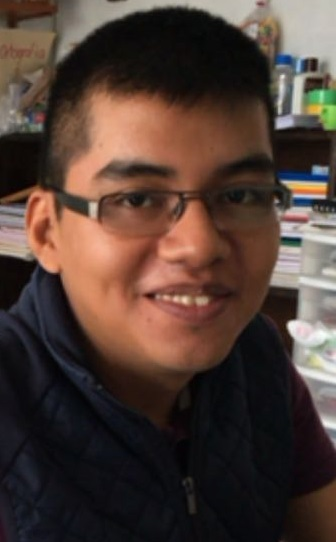
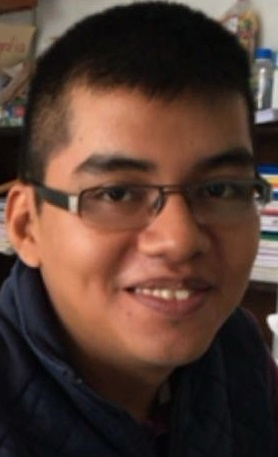
configuracion de plantilla
completando los detalles del portafolio web

diff --git a/index.html b/index.html
@@ -74,8 +74,11 @@
           <div class="carousel-item active" style="background-image: url('img/intro/1.jpg');">
             <div class="carousel-container">
               <div class="carousel-content">
-               <h2>  <a href="#team"> Acerca de mi </a> </h2> 
-                <p></p>
+               <h2>  <a href="#team"> JORGE GUZMÁN JUÁREZ  </a> </h2> 
+                <p>
+				Programador web <br>
+		      Ingeniero en Tecnologías de la Información y Comunicaciones
+				</p>
                 
               </div>
             </div>
@@ -85,7 +88,7 @@
             <div class="carousel-container">
               <div class="carousel-content">
                 <h2>  <a href="#skills"> Competencias </a> </h2>
-                <p></p>
+                <p>Conocimientos técnicos aprendidos con mis estudios y trabajos</p>
                
               </div>
             </div>
@@ -95,8 +98,10 @@
             <div class="carousel-container">
               <div class="carousel-content">
                 <h2>  <a href="#portfolio"> Proyectos </a> </h2>
-                <p></p>
-                
+                <p>
+					Paginas y sistemas web construidos como ejercicios de practica
+				</p>
+             
               </div>
             </div>
           </div>
@@ -105,12 +110,12 @@
 
         <a class="carousel-control-prev" href="#introCarousel" role="button" data-slide="prev">
           <span class="carousel-control-prev-icon ion-chevron-left" aria-hidden="true"></span>
-          <span class="sr-only">Previous</span>
+          <span class="sr-only">Anterior</span>
         </a>
 
         <a class="carousel-control-next" href="#introCarousel" role="button" data-slide="next">
           <span class="carousel-control-next-icon ion-chevron-right" aria-hidden="true"></span>
-          <span class="sr-only">Next</span>
+          <span class="sr-only">Siguiente</span>
         </a>
 
       </div>
@@ -136,7 +141,7 @@
 
           <div class="col-lg-3 col-md-6 wow fadeInUp">
             <div class="member">
-              <img src="img/team/team-5.jpg" class="img-fluid" alt="">
+              <img src="img/team/team-3.jpg" class="img-fluid" alt="">
               <div class="member-info">
                 <div class="member-info-content">
 				<h4>Jorge Guzmán Juárez</h4>
@@ -157,7 +162,9 @@
 			 <img src="img/quote-sign/quote-sign-left.png" class="quote-sign-left" alt="">
 			Soy un profesionista responsable, ordenado, trabajador, autodidacta, puntual, honesto, capaz de trabajar en equipo y enfocado a dar resultados.<br>
 			Un ingeniero con experiencia en HTML5, CSS3, JavaScript, JSON, AJAX, Bootstrap, PHP, PDO, POO, MVC, Github, Mysql, MS SQL Server y conocimientos 
-			en otras tecnologias como java, arduino, redes lan, linux, entre otras.
+			en otras tecnologias como java, arduino, redes lan, linux, entre otras. <br>
+			Continuamente aprendiendo y adquiriendo nuevas habilidades en función a las actuales y futuras demandas y tendencias tecnológicas en el 
+			campo del desarrollo web en general.
 			<img src="img/quote-sign/quote-sign-right.png" class="quote-sign-right" alt="">
 			</p>
 			<div class="text-center">
@@ -219,14 +226,16 @@
         </header>
 
         <div class="owl-carousel clients-carousel">
-          <img src="img/clients/client-1.png" alt=""> <!-- Windows -->
-          <img src="img/clients/client-2.png" alt=""> <!-- Office -->
-          <img src="img/clients/client-3.png" alt=""> <!-- SQL Server -->
-          <img src="img/clients/client-4.png" alt=""> <!-- Visual Studio code -->
-          <img src="img/clients/client-5.png" alt=""> <!-- Visual Studio -->
-          <img src="img/clients/client-6.png" alt=""> <!-- Github -->
-          <img src="img/clients/client-7.png" alt=""> <!-- Otulook -->
-          <img src="img/clients/client-8.png" alt=""> <!-- Skype -->
+          <img class="text-center" src="img/tecnologies/tec-0.png" alt=""> 
+          <img class="text-center" src="img/tecnologies/tec-1.png" alt=""> 
+          <img class="text-center" src="img/tecnologies/tec-2.png" alt=""> 
+          <img class="text-center" src="img/tecnologies/tec-3.jpg" alt=""> 
+          <img class="text-center" src="img/tecnologies/tec-4.png" alt=""> 
+          <img class="text-center" src="img/tecnologies/tec-5.png" alt=""> 
+          <img class="text-center" src="img/tecnologies/tec-6.png" alt=""> 
+          <img class="text-center" src="img/tecnologies/tec-7.png" alt=""> 
+		  <img class="text-center" src="img/tecnologies/tec-8.jpg" alt=""> 
+		  <img class="text-center" src="img/tecnologies/tec-10.png" alt=""> 		 
         </div>
 
       </div>
@@ -248,7 +257,7 @@
               <li data-filter="*" class="filter-active">Todos</li>
 			  <li data-filter=".filter-web">Sistemas</li>
 			  <li data-filter=".filter-card">Ejercicios</li>
-             
+             <li data-filter=".filter-dia">Diagramas</li>
             </ul>
           </div>
         </div>
@@ -258,8 +267,8 @@
 		<div class="col-lg-4 col-md-6 portfolio-item filter-web wow fadeInUp" data-wow-delay="0.1s">
             <div class="portfolio-wrap">
               <figure>
-                <img src="img/portfolio/web.jpg" class="img-fluid" alt="">
-                <a href="img/portfolio/web.jpg" class="link-preview" data-lightbox="portfolio" data-title="Web 1" title="Preview"><i class="ion ion-eye"></i></a>
+                <img src="img/portfolio/web1.jpg" class="img-fluid" alt="">
+                <a href="img/portfolio/web1.jpg" class="link-preview" data-lightbox="portfolio" data-title="Portafolio Web" title="Vista"><i class="ion ion-eye"></i></a>
                 <a href="https://github.com/JGJCodes/Html-PortafolioLaboral" class="link-details" title="More Details"><i class="ion ion-android-open"></i></a>
               </figure>
 
@@ -273,9 +282,9 @@
 		<div class="col-lg-4 col-md-6 portfolio-item filter-web wow fadeInUp" data-wow-delay="0.1s">
             <div class="portfolio-wrap">
               <figure>
-                <img src="img/portfolio/web2.jpg" class="img-fluid" alt="">
-                <a href="img/portfolio/web2.jpg" class="link-preview" data-lightbox="portfolio" data-title="Web 2" title="Preview"><i class="ion ion-eye"></i></a>
-                <a href="https://github.com/JGJCodes/Php-SistemaWebCurso" class="link-details" title="More Details"><i class="ion ion-android-open"></i></a>
+                <img src="img/portfolio/web3.png" class="img-fluid" alt="">
+                <a href="img/portfolio/web3.png" class="link-preview" data-lightbox="portfolio" data-title="Sistema Web Curso" title="Visualizar"><i class="ion ion-eye"></i></a>
+                <a href="https://github.com/JGJCodes/Php-SistemaWebCurso" class="link-details" title="Más Detalles"><i class="ion ion-android-open"></i></a>
               </figure>
 
               <div class="portfolio-info">
@@ -288,9 +297,9 @@
           <div class="col-lg-4 col-md-6 portfolio-item filter-web wow fadeInUp" data-wow-delay="0.1s">
             <div class="portfolio-wrap">
               <figure>
-                <img src="img/portfolio/web3.jpg" class="img-fluid" alt="">
-                <a href="img/portfolio/web3.jpg" class="link-preview" data-lightbox="portfolio" data-title="Web 3" title="Preview"><i class="ion ion-eye"></i></a>
-                <a href="https://github.com/JGJCodes/Php-SistemaEscolar-Residencias" class="link-details" title="More Details"><i class="ion ion-android-open"></i></a>
+                <img src="img/portfolio/web2.png" class="img-fluid" alt="">
+                <a href="img/portfolio/web2.png" class="link-preview" data-lightbox="portfolio" data-title="Sistema Web Escolar" title="Visualizar"><i class="ion ion-eye"></i></a>
+                <a href="https://github.com/JGJCodes/Php-SistemaEscolar-Residencias" class="link-details" title="Más Detalles"><i class="ion ion-android-open"></i></a>
               </figure>
 
               <div class="portfolio-info">
@@ -298,13 +307,43 @@
                 <p>Se trata de un sistema web educativo.</p>
               </div>
             </div>
-          </div>	  
+          </div>
+
+		<div class="col-lg-4 col-md-6 portfolio-item filter-web wow fadeInUp" data-wow-delay="0.1s">
+            <div class="portfolio-wrap">
+              <figure>
+                <img src="img/portfolio/web4.png" class="img-fluid" alt="">
+                <a href="img/portfolio/web4.png" class="link-preview" data-lightbox="portfolio" data-title="Pagina Web Noticias" title="Visualizar"><i class="ion ion-eye"></i></a>
+                <a href="https://github.com/JGJCodes/Html-PaginaWebNoticias" class="link-details" title="Más Detalles"><i class="ion ion-android-open"></i></a>
+              </figure>
+
+              <div class="portfolio-info">
+                <h4><a href="https://github.com/JGJCodes/Html-PaginaWebNoticias">Pagina Web Noticias</a></h4>
+                <p>Se trata de un ejemplo de una pagina web de noticias.</p>
+              </div>
+            </div>
+          </div>
+
+		<div class="col-lg-4 col-md-6 portfolio-item filter-card wow fadeInUp">
+            <div class="portfolio-wrap">
+              <figure>
+                <img src="img/portfolio/ejer-html.png" class="img-fluid" alt="">
+                <a href="img/portfolio/ejer-html.png" data-lightbox="portfolio" data-title="Ejercicios HTML" class="link-preview" title="Visualizar"><i class="ion ion-eye"></i></a>
+                <a href="https://github.com/JGJCodes/Html-Examples" class="link-details" title="Más Detalles"><i class="ion ion-android-open"></i></a>
+              </figure>
+
+              <div class="portfolio-info">
+                <h4><a href="https://github.com/JGJCodes/Html-Examples">Ejercicios HTML</a></h4>
+                <p>Ejemplos de programación construidos con HTML</p>
+              </div>
+            </div>
+          </div>
 		  
 		  <div class="col-lg-4 col-md-6 portfolio-item filter-card wow fadeInUp">
             <div class="portfolio-wrap">
               <figure>
-                <img src="img/portfolio/app1.jpg" class="img-fluid" alt="">
-                <a href="img/portfolio/app1.jpg" data-lightbox="portfolio" data-title="App 1" class="link-preview" title="Visualizar"><i class="ion ion-eye"></i></a>
+                <img src="img/portfolio/ejer-css.png" class="img-fluid" alt="">
+                <a href="img/portfolio/ejer-css.png" data-lightbox="portfolio" data-title="Ejercicios CSS" class="link-preview" title="Visualizar"><i class="ion ion-eye"></i></a>
                 <a href="https://github.com/JGJCodes/Css-Examples" class="link-details" title="Más Detalles"><i class="ion ion-android-open"></i></a>
               </figure>
 
@@ -318,9 +357,9 @@
 		  <div class="col-lg-4 col-md-6 portfolio-item filter-card wow fadeInUp" data-wow-delay="0.2s">
             <div class="portfolio-wrap">
               <figure>
-                <img src="img/portfolio/app3.jpg" class="img-fluid" alt="">
-                <a href="img/portfolio/app3.jpg" class="link-preview" data-lightbox="portfolio" data-title="App 2" title="Preview"><i class="ion ion-eye"></i></a>
-                <a href="https://github.com/JGJCodes/Boobstrap-Examples" class="link-details" title="More Details"><i class="ion ion-android-open"></i></a>
+                <img src="img/portfolio/ejer-bootstrap.png" class="img-fluid" alt="">
+                <a href="img/portfolio/ejer-bootstrap.png" class="link-preview" data-lightbox="portfolio" data-title="Ejercicios Bootstrap" title="Visualizar"><i class="ion ion-eye"></i></a>
+                <a href="https://github.com/JGJCodes/Boobstrap-Examples" class="link-details" title="Más Detalles"><i class="ion ion-android-open"></i></a>
               </figure>
 
               <div class="portfolio-info">
@@ -333,9 +372,9 @@
           <div class="col-lg-4 col-md-6 portfolio-item filter-card wow fadeInUp" data-wow-delay="0.2s">
             <div class="portfolio-wrap">
               <figure>
-                <img src="img/portfolio/app3.jpg" class="img-fluid" alt="">
-                <a href="img/portfolio/app3.jpg" class="link-preview" data-lightbox="portfolio" data-title="App 2" title="Preview"><i class="ion ion-eye"></i></a>
-                <a href="https://github.com/JGJCodes/Php-Examples" class="link-details" title="More Details"><i class="ion ion-android-open"></i></a>
+                <img src="img/portfolio/ejer-php.png" class="img-fluid" alt="">
+                <a href="img/portfolio/ejer-php.png" class="link-preview" data-lightbox="portfolio" data-title="Ejercicios PHP" title="Visualizar"><i class="ion ion-eye"></i></a>
+                <a href="https://github.com/JGJCodes/Php-Examples" class="link-details" title="Más Detalles"><i class="ion ion-android-open"></i></a>
               </figure>
 
               <div class="portfolio-info">
@@ -348,9 +387,9 @@
 		  <div class="col-lg-4 col-md-6 portfolio-item filter-card wow fadeInUp" data-wow-delay="0.2s">
             <div class="portfolio-wrap">
               <figure>
-                <img src="img/portfolio/app3.jpg" class="img-fluid" alt="">
-                <a href="img/portfolio/app3.jpg" class="link-preview" data-lightbox="portfolio" data-title="App 2" title="Preview"><i class="ion ion-eye"></i></a>
-                <a href="https://github.com/JGJCodes/Javascript-Examples" class="link-details" title="More Details"><i class="ion ion-android-open"></i></a>
+                <img src="img/portfolio/ejer-javascript.png" class="img-fluid" alt="">
+                <a href="img/portfolio/ejer-javascript.png" class="link-preview" data-lightbox="portfolio" data-title="Ejercicios Javascript" title="Visualizar"><i class="ion ion-eye"></i></a>
+                <a href="https://github.com/JGJCodes/Javascript-Examples" class="link-details" title="Más Detalles"><i class="ion ion-android-open"></i></a>
               </figure>
 
               <div class="portfolio-info">
@@ -363,9 +402,9 @@
 		  <div class="col-lg-4 col-md-6 portfolio-item filter-card wow fadeInUp" data-wow-delay="0.2s">
             <div class="portfolio-wrap">
               <figure>
-                <img src="img/portfolio/app3.jpg" class="img-fluid" alt="">
-                <a href="img/portfolio/app3.jpg" class="link-preview" data-lightbox="portfolio" data-title="App 2" title="Preview"><i class="ion ion-eye"></i></a>
-                <a href="https://github.com/JGJCodes/Arduino-Examples" class="link-details" title="More Details"><i class="ion ion-android-open"></i></a>
+                <img src="img/portfolio/ejer-arduino.jpg" class="img-fluid" alt="">
+                <a href="img/portfolio/ejer-arduino.jpg" class="link-preview" data-lightbox="portfolio" data-title="Ejercicios Arduino" title="Visualizar"><i class="ion ion-eye"></i></a>
+                <a href="https://github.com/JGJCodes/Arduino-Examples" class="link-details" title="Más Detalles"><i class="ion ion-android-open"></i></a>
               </figure>
 
               <div class="portfolio-info">
@@ -374,6 +413,157 @@
               </div>
             </div>
           </div>
+		  
+		   <div class="col-lg-4 col-md-6 portfolio-item filter-dia wow fadeInUp" data-wow-delay="0.2s">
+            <div class="portfolio-wrap">
+              <figure>
+                <img src="img/portfolio/dia1.png" class="img-fluid" alt="">
+                <a href="img/portfolio/dia1.png" class="link-preview" data-lightbox="portfolio" data-title="Diagrama DB" title="Visualizar"><i class="ion ion-eye"></i></a>
+                
+              </figure>
+
+              <div class="portfolio-info">
+                <h4><a href="img/portfolio/dia1.png" class="link-preview" data-lightbox="portfolio" data-title="Diagrama DB" title="Visualizar">Diagrama DB</a></h4>
+                <p>Ejemplos de un diagrama de una base de datos de un ejercicio.</p>
+              </div>
+            </div>
+          </div>
+		  
+		  <div class="col-lg-4 col-md-6 portfolio-item filter-dia wow fadeInUp" data-wow-delay="0.2s">
+            <div class="portfolio-wrap">
+              <figure>
+                <img src="img/portfolio/dia2.png" class="img-fluid" alt="">
+                <a href="img/portfolio/dia2.png" class="link-preview" data-lightbox="portfolio" data-title="Diagrama DB" title="Visualizar"><i class="ion ion-eye"></i></a>
+               
+              </figure>
+
+              <div class="portfolio-info">
+                <h4><a href="img/portfolio/dia2.png" class="link-preview" data-lightbox="portfolio" data-title="Diagrama DB" title="Visualizar">Diagrama DB</a></h4>
+                <p>Ejemplos de un diagrama de una base de datos de un ejercicio.</p>
+              </div>
+            </div>
+          </div>
+		  
+		  <div class="col-lg-4 col-md-6 portfolio-item filter-dia wow fadeInUp" data-wow-delay="0.2s">
+            <div class="portfolio-wrap">
+              <figure>
+                <img src="img/portfolio/dia3.png" class="img-fluid" alt="">
+                <a href="img/portfolio/dia3.png" class="link-preview" data-lightbox="portfolio" data-title="Diagrama DB" title="Visualizar"><i class="ion ion-eye"></i></a>
+               
+              </figure>
+
+              <div class="portfolio-info">
+                <h4><a href="img/portfolio/dia3.png" class="link-preview" data-lightbox="portfolio" data-title="Diagrama DB" title="Visualizar">Diagrama DB</a></h4>
+                <p>Ejemplos de un diagrama de una base de datos de un ejercicio.</p>
+              </div>
+            </div>
+          </div>
+		  
+		  <div class="col-lg-4 col-md-6 portfolio-item filter-dia wow fadeInUp" data-wow-delay="0.2s">
+            <div class="portfolio-wrap">
+              <figure>
+                <img src="img/portfolio/dia4.png" class="img-fluid" alt="">
+                <a href="img/portfolio/dia4.png" class="link-preview" data-lightbox="portfolio" data-title="Diagrama DB" title="Visualizar"><i class="ion ion-eye"></i></a>
+               
+              </figure>
+
+              <div class="portfolio-info">
+                <h4><a href="img/portfolio/dia4.png" class="link-preview" data-lightbox="portfolio" data-title="Diagrama DB" title="Visualizar">Diagrama DB</a></h4>
+                <p>Ejemplos de un diagrama de una base de datos de un ejercicio.</p>
+              </div>
+            </div>
+          </div>
+		  
+		  <div class="col-lg-4 col-md-6 portfolio-item filter-dia wow fadeInUp" data-wow-delay="0.2s">
+            <div class="portfolio-wrap">
+              <figure>
+                <img src="img/portfolio/dia5.png" class="img-fluid" alt="">
+                <a href="img/portfolio/dia5.png" class="link-preview" data-lightbox="portfolio" data-title="Diagrama caso de uso" title="Visualizar"><i class="ion ion-eye"></i></a>
+               
+              </figure>
+
+              <div class="portfolio-info">
+                <h4><a href="img/portfolio/dia5.png" class="link-preview" data-lightbox="portfolio" data-title="Diagrama caso de uso" title="Visualizar">Diagrama caso de uso</a></h4>
+                <p>Ejemplos de un diagrama uml de casos de uso de un ejercicio.</p>
+              </div>
+            </div>
+          </div>
+		  
+		  <div class="col-lg-4 col-md-6 portfolio-item filter-dia wow fadeInUp" data-wow-delay="0.2s">
+            <div class="portfolio-wrap">
+              <figure>
+                <img src="img/portfolio/dia6.jpeg" class="img-fluid" alt="">
+                <a href="img/portfolio/dia6.jpeg" class="link-preview" data-lightbox="portfolio" data-title="App 2" title="Visualizar"><i class="ion ion-eye"></i></a>
+               
+              </figure>
+
+              <div class="portfolio-info">
+                <h4><a href="img/portfolio/dia6.jpeg" class="link-preview" data-lightbox="portfolio" data-title="Diagrama electrónico" title="Visualizar">Diagrama electrónico</a></h4>
+                <p>Ejemplos de un diagrama de un circuito electrónico</p>
+              </div>
+            </div>
+          </div>
+		  
+		  <div class="col-lg-4 col-md-6 portfolio-item filter-dia wow fadeInUp" data-wow-delay="0.2s">
+            <div class="portfolio-wrap">
+              <figure>
+                <img src="img/portfolio/dia7.jpg" class="img-fluid" alt="">
+                <a href="img/portfolio/dia7.jpg" class="link-preview" data-lightbox="portfolio" data-title="App 2" title="Visualizar"><i class="ion ion-eye"></i></a>
+               
+              </figure>
+
+              <div class="portfolio-info">
+                <h4><a href="img/portfolio/dia7.jpg" class="link-preview" data-lightbox="portfolio" data-title="App 2" title="Visualizar">Diagrama DB</a></h4>
+                <p>Ejemplos de un diagrama de un circuito electrónico.</p>
+              </div>
+            </div>
+          </div>
+		  
+		  <div class="col-lg-4 col-md-6 portfolio-item filter-dia wow fadeInUp" data-wow-delay="0.2s">
+            <div class="portfolio-wrap">
+              <figure>
+                <img src="img/portfolio/dia8.jpg" class="img-fluid" alt="">
+                <a href="img/portfolio/dia8.jpg" class="link-preview" data-lightbox="portfolio" data-title="Diagrama electrónico" title="Visualizar"><i class="ion ion-eye"></i></a>
+               
+              </figure>
+
+              <div class="portfolio-info">
+                <h4><a href="img/portfolio/dia8.jpg" class="link-preview" data-lightbox="portfolio" data-title="Diagrama electrónico" title="Visualizar">Diagrama electrónico</a></h4>
+                <p>Ejemplos de un diagrama de un circuito electrónico.</p>
+              </div>
+            </div>
+          </div>
+		  
+		  <div class="col-lg-4 col-md-6 portfolio-item filter-dia wow fadeInUp" data-wow-delay="0.2s">
+            <div class="portfolio-wrap">
+              <figure>
+                <img src="img/portfolio/dia9.png" class="img-fluid" alt="">
+                <a href="img/portfolio/dia9.png" class="link-preview" data-lightbox="portfolio" data-title="Mapa de sitio we" title="Visualizar"><i class="ion ion-eye"></i></a>
+               
+              </figure>
+
+              <div class="portfolio-info">
+                <h4><a href="img/portfolio/dia9.png" class="link-preview" data-lightbox="portfolio" data-title="Mapa de sitio we" title="Visualizar">Mapa de sitio web</a></h4>
+                <p>Ejemplos de un mapa de sitio web.</p>
+              </div>
+            </div>
+          </div>
+		  
+		  <div class="col-lg-4 col-md-6 portfolio-item filter-dia wow fadeInUp" data-wow-delay="0.2s">
+            <div class="portfolio-wrap">
+              <figure>
+                <img src="img/portfolio/dia10.png" class="img-fluid" alt="">
+                <a href="img/portfolio/dia10.png" class="link-preview" data-lightbox="portfolio" data-title="App 2" title="Visualizar"><i class="ion ion-eye"></i></a>
+               
+              </figure>
+
+              <div class="portfolio-info">
+                <h4><a href="img/portfolio/dia10.jpg" class="link-preview" data-lightbox="portfolio" data-title="App 2" title="Visualizar">Diagrama de flujo</a></h4>
+                <p>Ejemplos de un diagrama de flujo de un ejercicio de programación.</p>
+              </div>
+            </div>
+          </div>
+		  
 
         </div>
 
